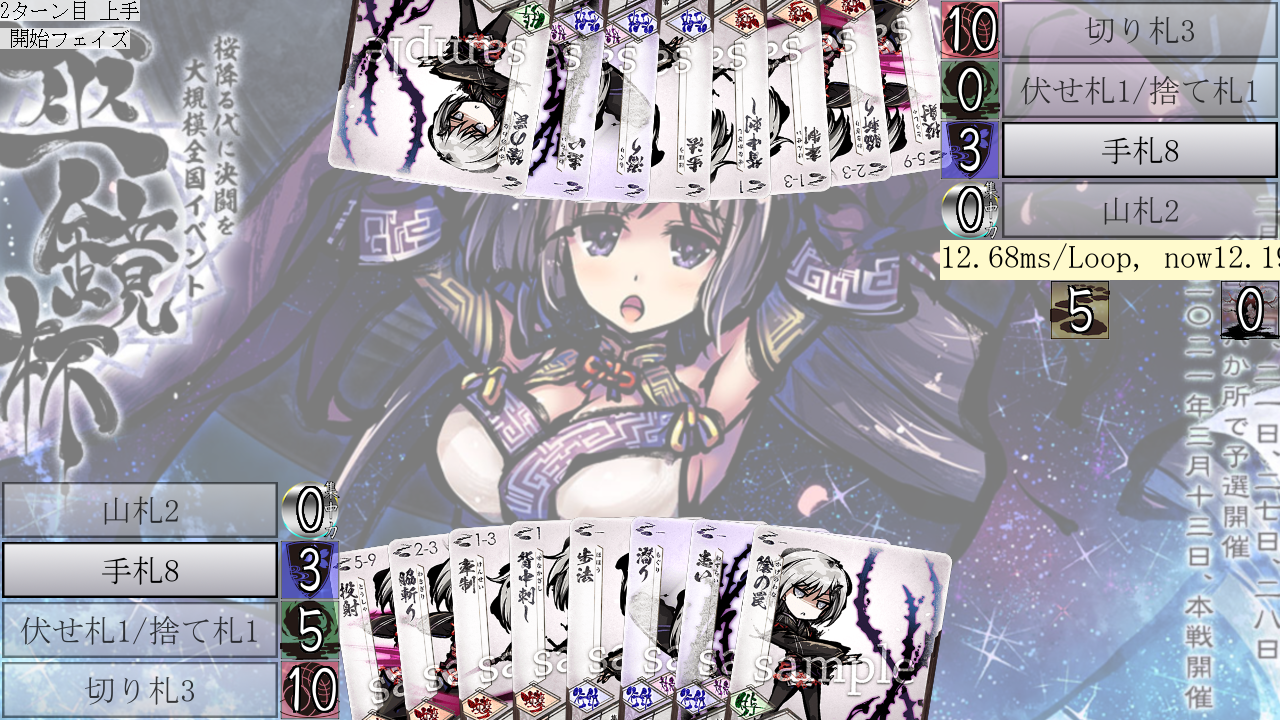
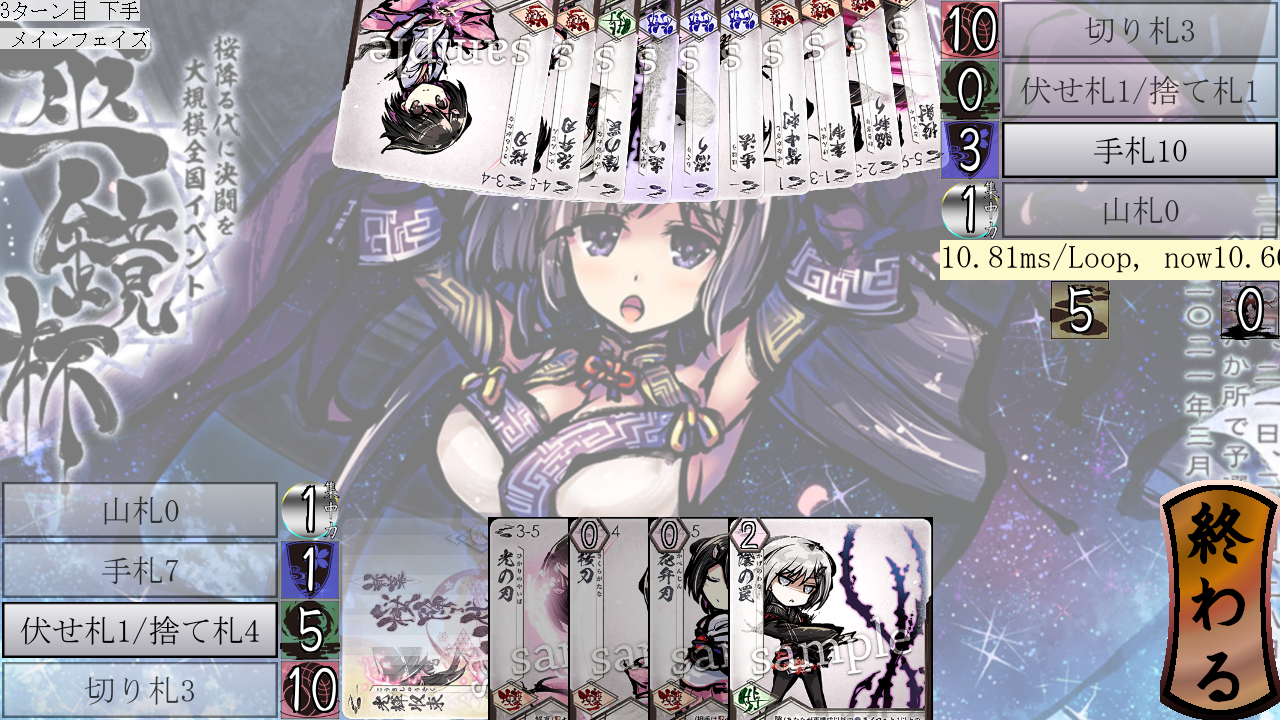
J292:ターンが回るようにして集中+1と2ドローを追加

diff --git a/mod/ol/turns_progression.py b/mod/ol/turns_progression.py
@@ -2,7 +2,7 @@
 from typing import Any, Callable
 
 from mod.const import compatible_with, pass_func, PH_NONE, PH_START, PH_MAIN, PH_END, opponent, side_name,\
-    POP_START_PHASE_FINISHED, POP_MAIN_PHASE_FINISHED, POP_END_PHASE_FINISHED
+    POP_START_PHASE_FINISHED, POP_MAIN_PHASE_FINISHED, POP_END_PHASE_FINISHED, SIMOTE
 
 from mod.popup_message import popup_message
 from mod.moderator import moderator
@@ -31,20 +31,41 @@ class TurnProgression():
         moderator.append(MainPhase(inject_func=self.main_inject))
         self.turn = 1
         self.phase = PH_MAIN
+        self.delivery.turn_player = SIMOTE
+        print(f"ターンプレイヤーを{side_name(self.delivery.turn_player)}にしたよ")
         self.reset_name()
 
     def close(self) -> PopStat:
         return PopStat()
 
     def moderate(self, stat: PopStat) -> None:
-        if stat.code == POP_MAIN_PHASE_FINISHED:
-            self.turn += 1
-            self.delivery.turn_player = opponent(self.delivery.turn_player)
-            self.reset_name()
-            moderator.append(StartPhase(inject_func=self.inject_func))
-        elif stat.code == POP_START_PHASE_FINISHED:
-            self.reset_name()
-            moderator.append(MainPhase(inject_func=self.main_inject))
+        if (func := {POP_MAIN_PHASE_FINISHED: self._finished_main_phase,
+                     POP_START_PHASE_FINISHED: self._finished_start_phase}.get(stat.code, None)):
+        # if (func := {POP_MAIN_PHASE_FINISHED: self._finished_main_phase, POP_START_PHASE_FINISHED: self._finished_start_phase
+        #         }.get(stat.code, None)) is not None:
+            func()
+        else:
+            raise ValueError(f"Invalid stat.code: {stat}")
+        # if stat.code == POP_MAIN_PHASE_FINISHED:
+        #     self.turn += 1
+        #     self.delivery.turn_player = opponent(self.delivery.turn_player)
+        #     self.reset_name()
+        #     moderator.append(StartPhase(inject_func=self.inject_func))
+        #     popup_message.add("MPF")
+        # elif stat.code == POP_START_PHASE_FINISHED:
+        #     self.reset_name()
+        #     moderator.append(MainPhase(inject_func=self.main_inject))
+        #     popup_message.add("SPF")
+
+    def _finished_main_phase(self) -> None:
+        self.turn += 1
+        self.delivery.turn_player = opponent(self.delivery.turn_player)
+        self.reset_name()
+        moderator.append(StartPhase(delivery=self.delivery, inject_func=self.inject_func))
+
+    def _finished_start_phase(self) -> None:
+        self.reset_name()
+        moderator.append(MainPhase(delivery=self.delivery, inject_func=self.main_inject))
 
     def reset_name(self) -> None:
         self.name = f"{self.turn}ターン目 {side_name(self.delivery.turn_player)}"

diff --git a/mod/ol/start_phase.py b/mod/ol/start_phase.py
@@ -1,6 +1,6 @@
 from typing import Callable, Any
 
-from mod.const import pass_func, IMG_TURN_END, IMG_TURN_END_LIGHTEN, POP_START_PHASE_FINISHED
+from mod.const import pass_func, IMG_TURN_END, IMG_TURN_END_LIGHTEN, POP_START_PHASE_FINISHED, UC_ZYOGAI, UC_SYUUTYUU, side_name
 from mod.delivery import Delivery, duck_delivery
 from mod.ol.pop_stat import PopStat
 from mod.ol.button import Button
@@ -13,17 +13,24 @@ class StartPhase():
         self.name = "開始フェイズ"
         self.inject_func: Callable[[], None] = inject_func
         self.delivery = delivery
+        self.hoyuusya = delivery.turn_player
         self.button = Button(img_nega=IMG_TURN_END, img_lighten=IMG_TURN_END_LIGHTEN, mouseup=self._mouseup_turn_end)
 
     def elapse(self) -> None:
         ...
 
-    def get_hover(self) -> Any | None:
+    def get_hover(self) -> Youso | None:
         return None
 
     def open(self) -> None:
-        popup_message.add("StartPhase.openへ到着したよ")
-        ...
+        popup_message.add(f"{side_name(self.hoyuusya)}のターンです")
+        self.delivery.send_ouka_to_ryouiki(
+            hoyuusya=self.hoyuusya, from_mine=False, from_code=UC_ZYOGAI, to_mine=True, to_code=UC_SYUUTYUU)
+        popup_message.add("集中力を１得ます")
+        for _ in range(2):
+            self.delivery.hand_draw(hoyuusya=self.hoyuusya, is_mine=True)
+        popup_message.add("カードを２枚引きます")
+        moderator.pop()
 
     def close(self) -> PopStat:
         return PopStat(POP_START_PHASE_FINISHED)
